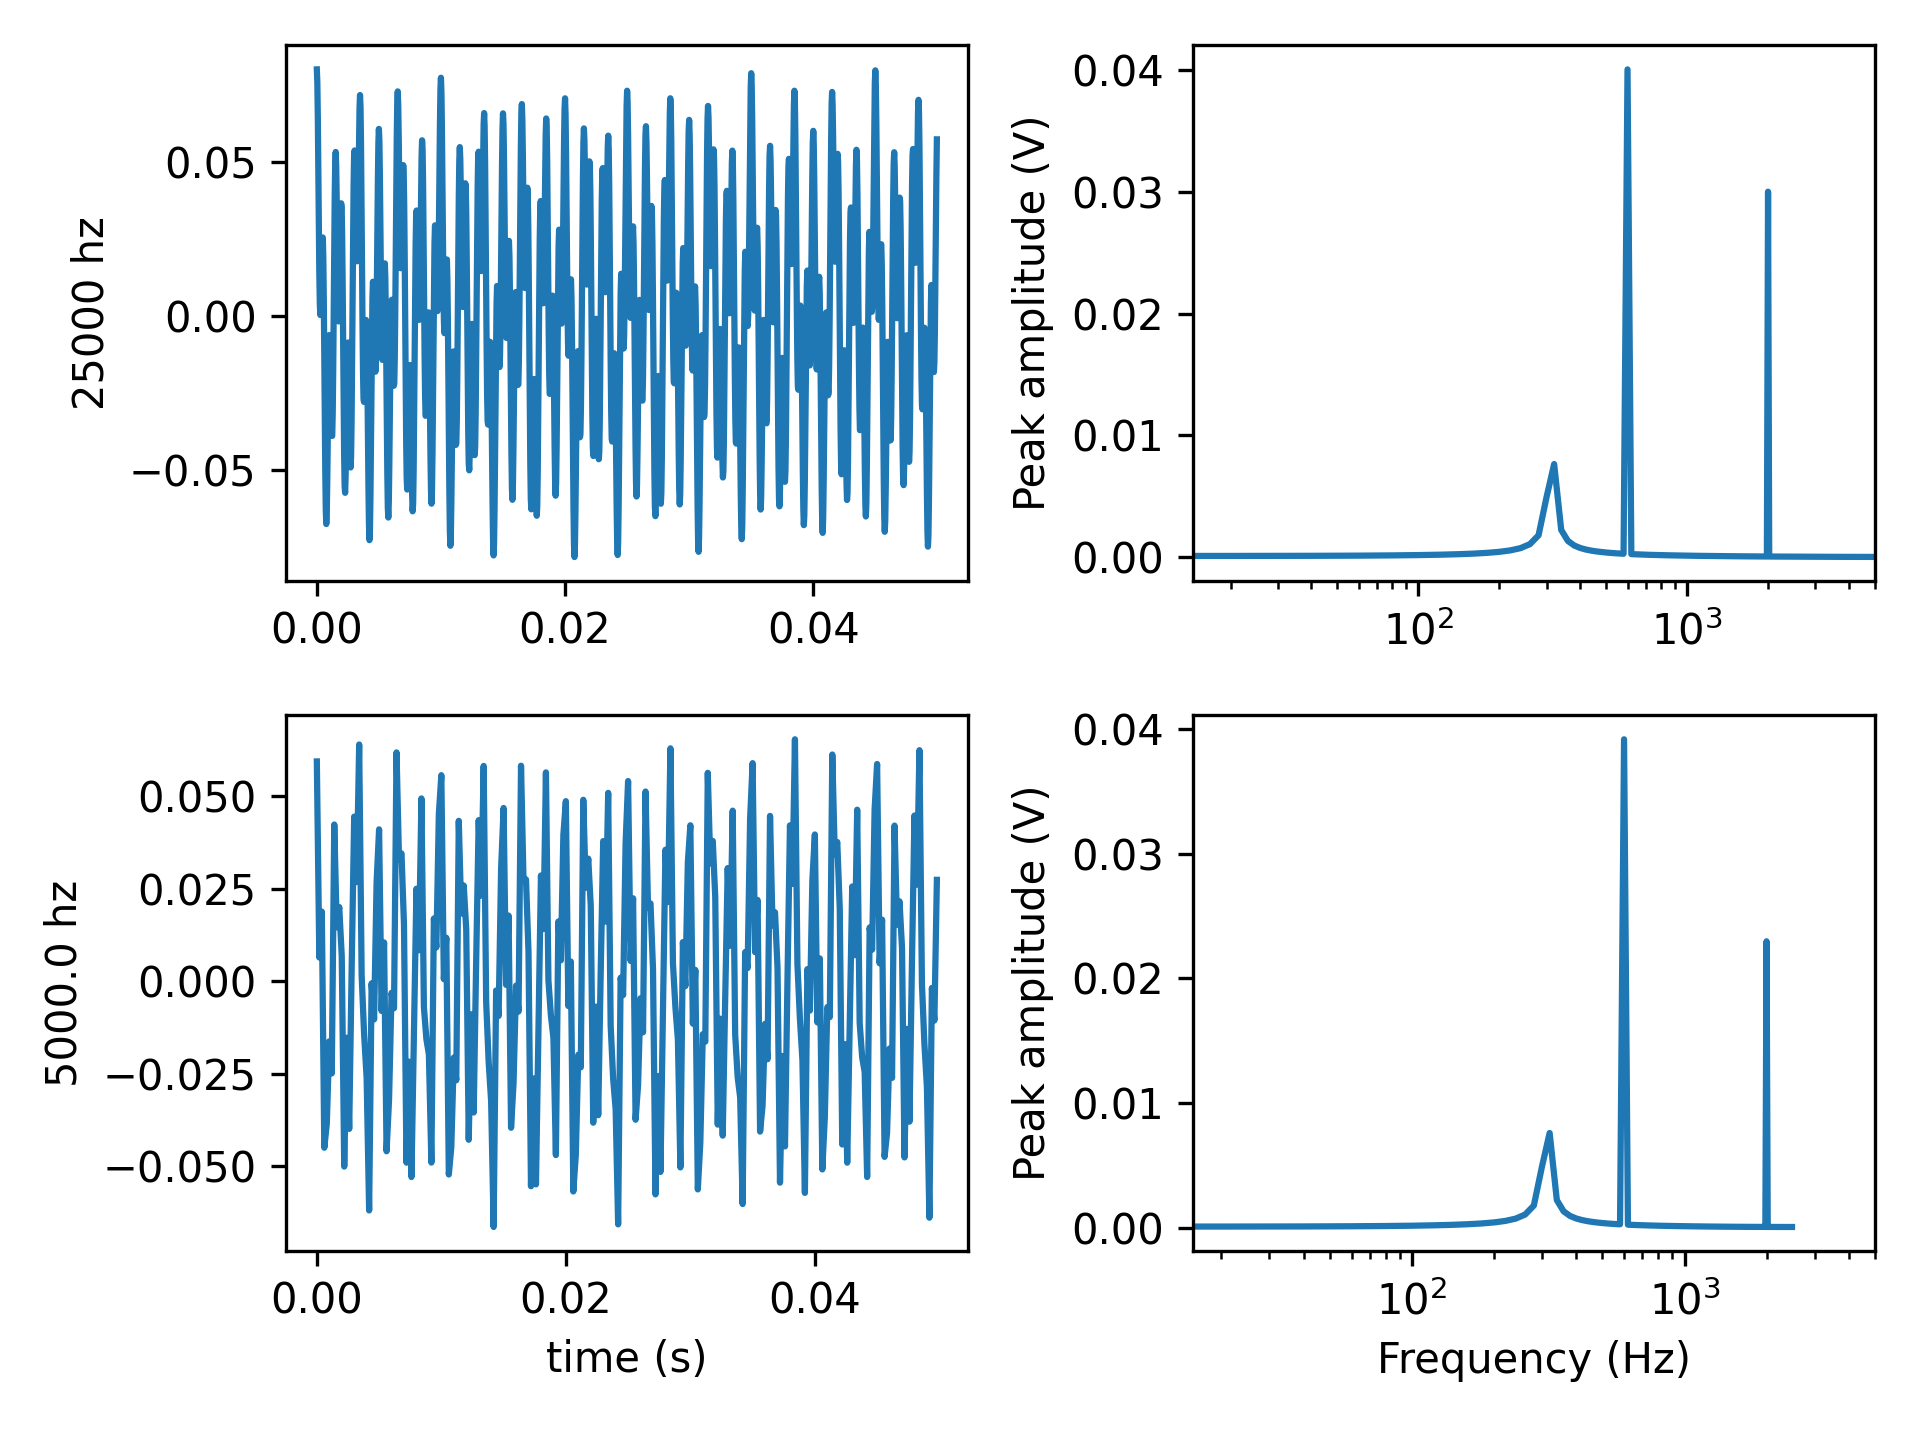
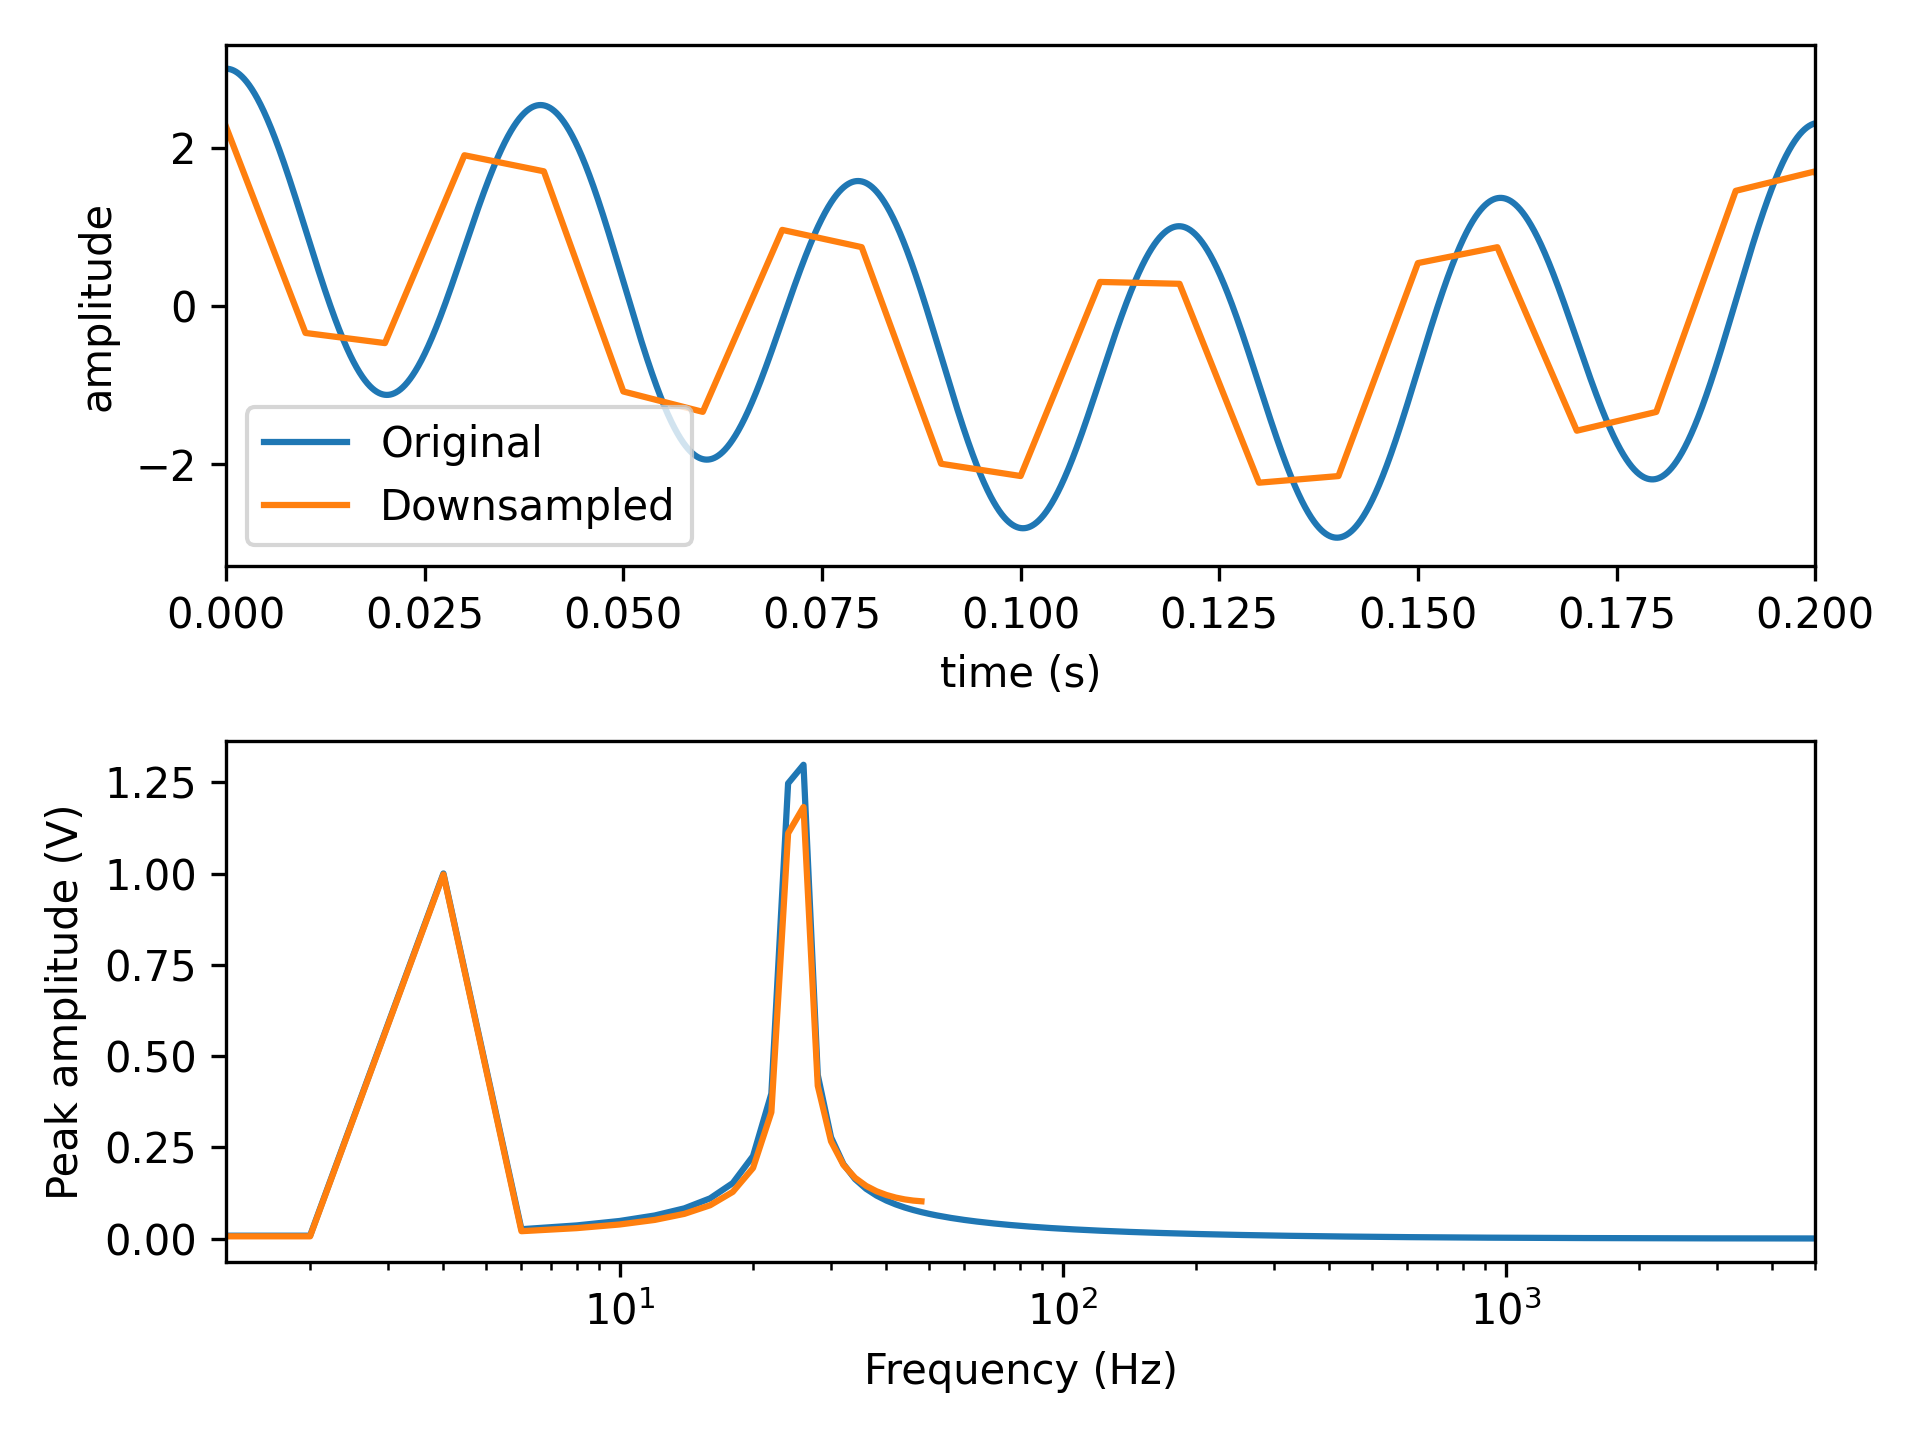
update downsample test

Changed region(s): [[0.0, 0.0312, 1.0, 0.9688], [0.0312, 0.125, 0.0625, 0.2812]]

diff --git a/tests/test_precondition.py b/tests/test_precondition.py
@@ -256,23 +256,27 @@ class FilterTests(unittest.TestCase):
         self.assertEqual(data_ds.shape, (10, 2))
         self.assertTrue(abs(np.mean(data) - np.mean(data_ds)) < 1)
 
-        fs_ds = self.fs/5
-        x_ds = precondition.downsample(self.x, self.fs, fs_ds)
-        fig, ax = plt.subplots(2,2)
-        ax[0,0].plot(self.t, self.x)
-        ax[0,0].set_ylabel(f"{self.fs} hz")
+        fs = 25000
+        fs_ds = 100
+        x, t = utils.generate_test_signal(0.5, fs, [4, 25], [1, 2])
+
+        x_ds = precondition.downsample(x, fs, fs_ds)
+        fig, ax = plt.subplots(2,1)
+        ax[0].plot(t, x)
         t_ds = np.arange(len(x_ds))/fs_ds
-        ax[1,0].plot(t_ds, x_ds)
-        ax[1,0].set_ylabel(f"{fs_ds} hz")
-        ax[1,0].set_xlabel("time (s)")
-        visualization.plot_freq_domain_amplitude(self.x, self.fs, ax=ax[0,1])
-        ax[0,1].set_xlim(0,5000)
-        ax[0,1].set_xlabel('')
-        visualization.plot_freq_domain_amplitude(x_ds, fs_ds, ax=ax[1,1])
-        ax[1,1].set_xlim(0,5000)
+        ax[0].plot(t_ds, x_ds)
+        ax[0].set_ylabel(f"{fs_ds} hz")
+        ax[0].set_xlabel("time (s)")
+        ax[0].set_ylabel("amplitude")
+        ax[0].set_xlim(0,0.2)
+        ax[0].legend(['Original', 'Downsampled'])
+        visualization.plot_freq_domain_amplitude(x, fs, ax=ax[1])
+        visualization.plot_freq_domain_amplitude(x_ds, fs_ds, ax=ax[1])
+        ax[1].set_xlim(0,5000)
+        ax[0].legend(['Original', 'Downsampled'])
         plt.tight_layout()
         filename = 'downsample.png'
-        savefig(docs_dir, filename)
+        savefig(docs_dir, filename, transparent=False)
 
         # Test non-integer downsample factor
         data_ds = precondition.downsample(data, 100, 13)
